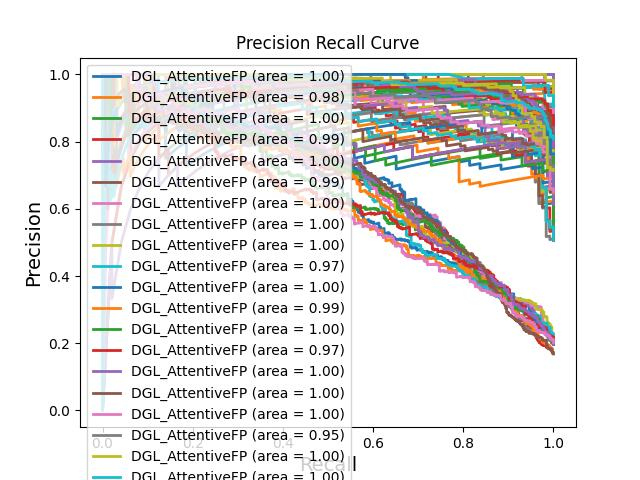
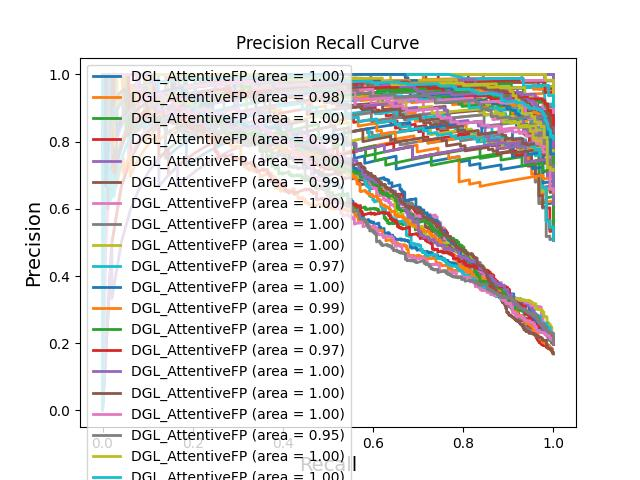
updated readme for baseboosting

diff --git a/model_assets/BaseBoosting/code/README.md b/model_assets/BaseBoosting/code/README.md
@@ -1,5 +1,26 @@
 # BaseBoosting
 
+## ❌ Status: Could Not Run
+
+**BaseBoosting could not be executed on the company server due to network restrictions.**
+
+`olorenchemengine` (OCE) is not available as a prebuilt wheel on PyPI or
+mirrored package indexes. Installation requires cloning from GitHub
+(`github.com/Oloren-AI/olorenchemengine`), which is blocked by the company
+server firewall. All three install methods were attempted and failed:
+
+```
+pip install olorenchemengine                          # not on PyPI as wheel
+pip install olorenchemengine -i <Tsinghua mirror>     # not on mirror
+pip install git+https://github.com/Oloren-AI/...     # GitHub HTTPS blocked
+```
+
+This is the same class of network restriction that blocked ZairaChem. The
+benchmark code is fully implemented and documented — BaseBoosting can be run
+on any machine with unrestricted internet access to GitHub.
+
+---
+
 ## Overview
 
 BaseBoosting reproduces the Oloren AI submission to the TDC ADMET leaderboard
@@ -21,9 +42,9 @@ BaseBoosting ensemble of 3 Random Forest learners:
     ├── RF on Morgan counts fingerprints  (morgan3counts, ~2048-dim)
     ├── RF on normalized RDKit 2D descriptors (rdkit2dnormalized, ~200-dim)
     └── RF on OlorenCheckpoint("default")  ← pre-trained GIN fingerprint
-            (downloads from Google Cloud Storage — may be blocked)
+            (downloads from Google Cloud Storage — likely also blocked)
     ↓
-Gradient boosting: each learner corrects errors of the previous
+Gradient boosting: each learner corrects residuals of the previous
     ↓
 Prediction (classification or regression, auto-detected)
 ```
@@ -35,8 +56,8 @@ Prediction (classification or regression, auto-detected)
 Unlike standard ensembles (which average predictions), `BaseBoosting` trains
 learners sequentially — each one fits the residuals of the previous. The key
 innovation in OCE is that each "weak learner" can use a completely different
-molecular representation, so the ensemble captures both structural (Morgan
-fingerprints) and physicochemical (RDKit 2D) and learned (GIN embedding)
+molecular representation, so the ensemble captures structural (Morgan
+fingerprints), physicochemical (RDKit 2D), and learned (GIN embedding)
 information in one model.
 
 ## What is OlorenCheckpoint("default")?
@@ -49,47 +70,45 @@ on first use.
 
 ---
 
-## Network Restrictions
+## Network Restrictions (Confirmed Blockers)
 
-Two potential blockers on restricted servers:
+**1. OCE installation — BLOCKED.** `olorenchemengine` requires cloning from
+GitHub to build. The company server blocks all GitHub HTTPS traffic. Neither
+PyPI, the Tsinghua mirror, nor direct GitHub clone worked. This is a hard
+blocker — the benchmark cannot run without OCE.
 
-**1. OCE installation** — the recommended install is a shell script that pulls
-from GitHub. If GitHub is blocked, use pip directly:
-```bash
-pip install olorenchemengine
-```
-
-**2. OlorenCheckpoint weights** — downloaded from `storage.googleapis.com` at
-runtime. The script automatically falls back to 2 learners if this fails, and
-logs the deviation in the result JSON.
+**2. OlorenCheckpoint weights — likely also blocked.** Even if OCE could be
+installed, `OlorenCheckpoint("default")` downloads a pre-trained GIN from
+`storage.googleapis.com`, which is also likely blocked. The script includes
+a graceful 2-learner fallback for this case, but it is untested.
 
 ---
 
 ## Deviations from Original Pipeline
 
-- Original submission code unavailable (GitHub repo down as of June 2026)
+- Original submission code unavailable (GitHub repo `Oloren-AI/OCE-TDC` down as of June 2026)
 - Pipeline inferred from OCE documentation and paper
-- If `OlorenCheckpoint` download fails, we run with 2 learners (Morgan + RDKit2D)
-  instead of 3 — this is documented in each task's result JSON
+- Could not run — blocked by company server network restrictions (see above)
+- If `OlorenCheckpoint` download fails, script falls back to 2 learners (Morgan + RDKit2D)
 - No hyperparameter tuning added — original uses fixed n_estimators=1000 per RF
 
 ---
 
-## Environment Setup
+## Environment Setup (for machines with unrestricted internet)
 
 ```bash
 conda create -n baseboosting_env python=3.8 -y
 conda activate baseboosting_env
 conda install -c conda-forge rdkit -y
 
-# Install OCE
-pip install olorenchemengine -i https://pypi.tuna.tsinghua.edu.cn/simple
+# Install OCE (requires GitHub access)
+pip install git+https://github.com/Oloren-AI/olorenchemengine.git
 
 # Install PyTorch Geometric (required for GNN components)
 pip install torch-scatter torch-sparse torch-cluster torch-spline-conv torch-geometric \
     -f https://data.pyg.org/whl/torch-2.1.0+cu121.html
 
-pip install -r code/requirements.txt -i https://pypi.tuna.tsinghua.edu.cn/simple
+pip install PyTDC numpy pandas scikit-learn joblib
 ```
 
 ---
@@ -101,43 +120,34 @@ BaseBoosting/
 ├── README.md
 ├── data/               # TDC datasets (symlink to shared data dir)
 ├── code/
-│   ├── run_benchmark.py    # Main benchmarking script
+│   ├── run_benchmark.py    # Main benchmarking script (implemented, not run)
 │   ├── check_install.py    # Installation verification
 │   └── requirements.txt    # Dependencies
-├── artifacts/          # Saved model.oce + hyperparams.json per task
-└── logs/               # Per-task JSON result logs
+├── artifacts/          # Empty — could not run
+└── logs/               # Empty — could not run
 ```
 
 ---
 
-## How to Run
+## How to Run (on unrestricted machine)
 
 ```bash
 conda activate baseboosting_env
 cd model_assets/BaseBoosting
-
-# Symlink data
 ln -s ../MapLight_GNN/data data
-
 cd code
 
-# Check install (OlorenCheckpoint check is optional/informational)
 python check_install.py
-
-# Single task test first
-python run_benchmark.py --task hia_hou --runs 1
-
-# Full benchmark (~6-12 hours — RF with 1000 trees × 3 learners × 5 seeds × 22 tasks)
+python run_benchmark.py --task hia_hou --runs 1  # single task test
 nohup python run_benchmark.py > ~/model_benchmarks/baseboosting.log 2>&1 &
 disown
 ```
 
 ---
 
-## Expected Runtime
+## Expected Runtime (if run)
 
-Each task: 3 RF models × 1000 trees × 5 seeds = 15,000 trees trained. On a
-large CPU server with parallelism (n_jobs=-1 inside sklearn RF), expect:
+Each task: 3 RF models × 1000 trees × 5 seeds = 15,000 trees trained.
 - Small tasks (500-700 molecules): ~2-5 min per seed
 - Large tasks (12,000+ molecules, CYP): ~10-20 min per seed
 